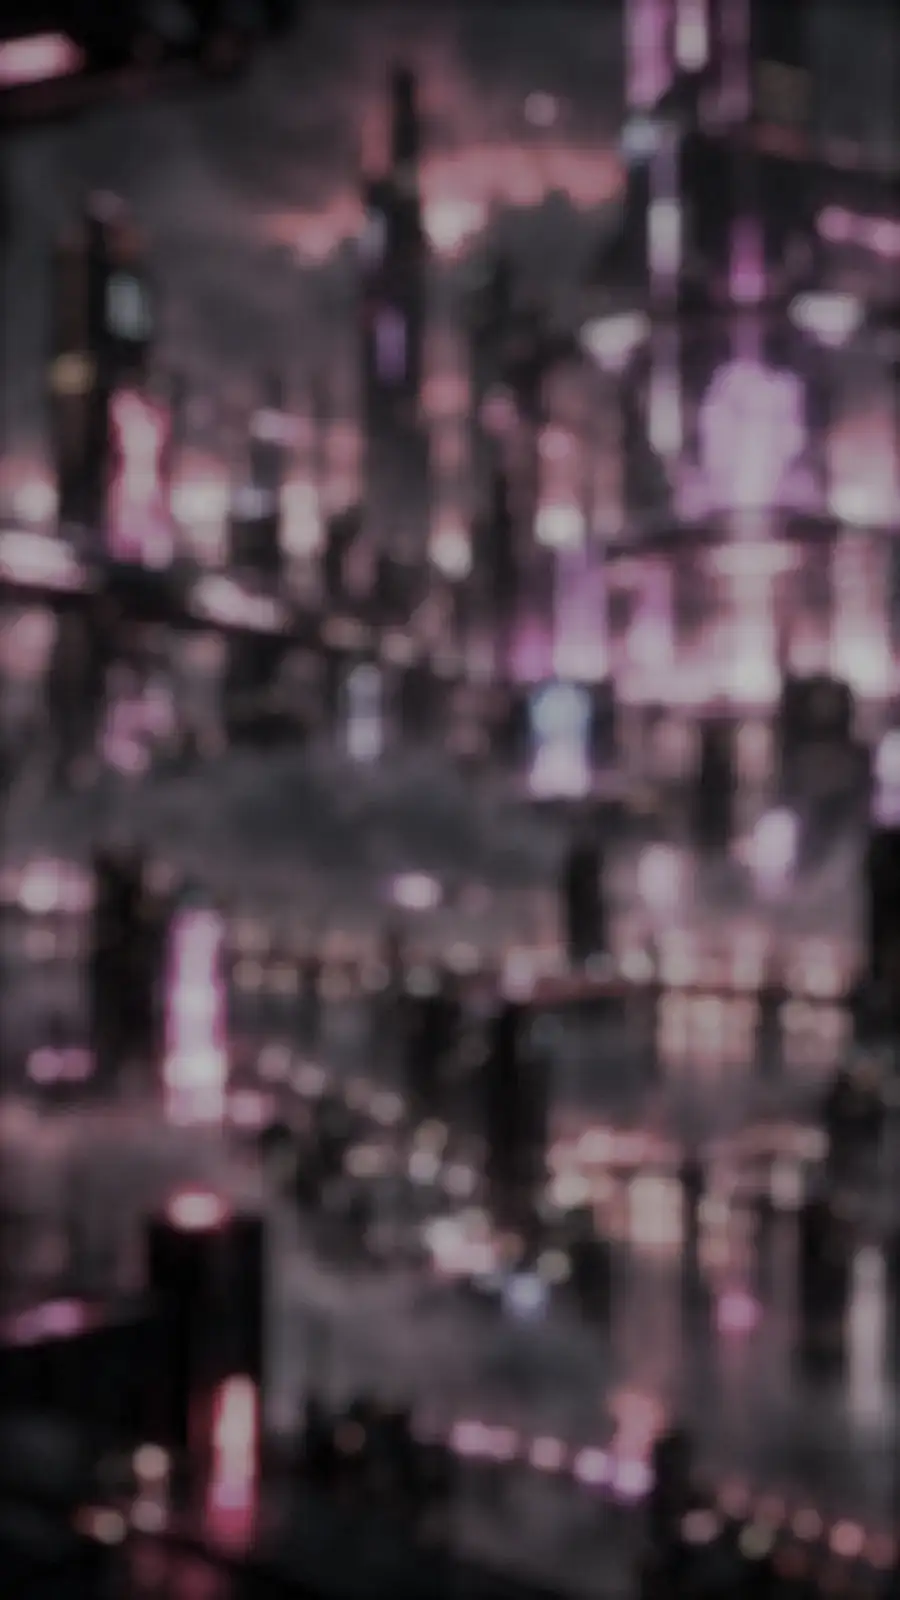
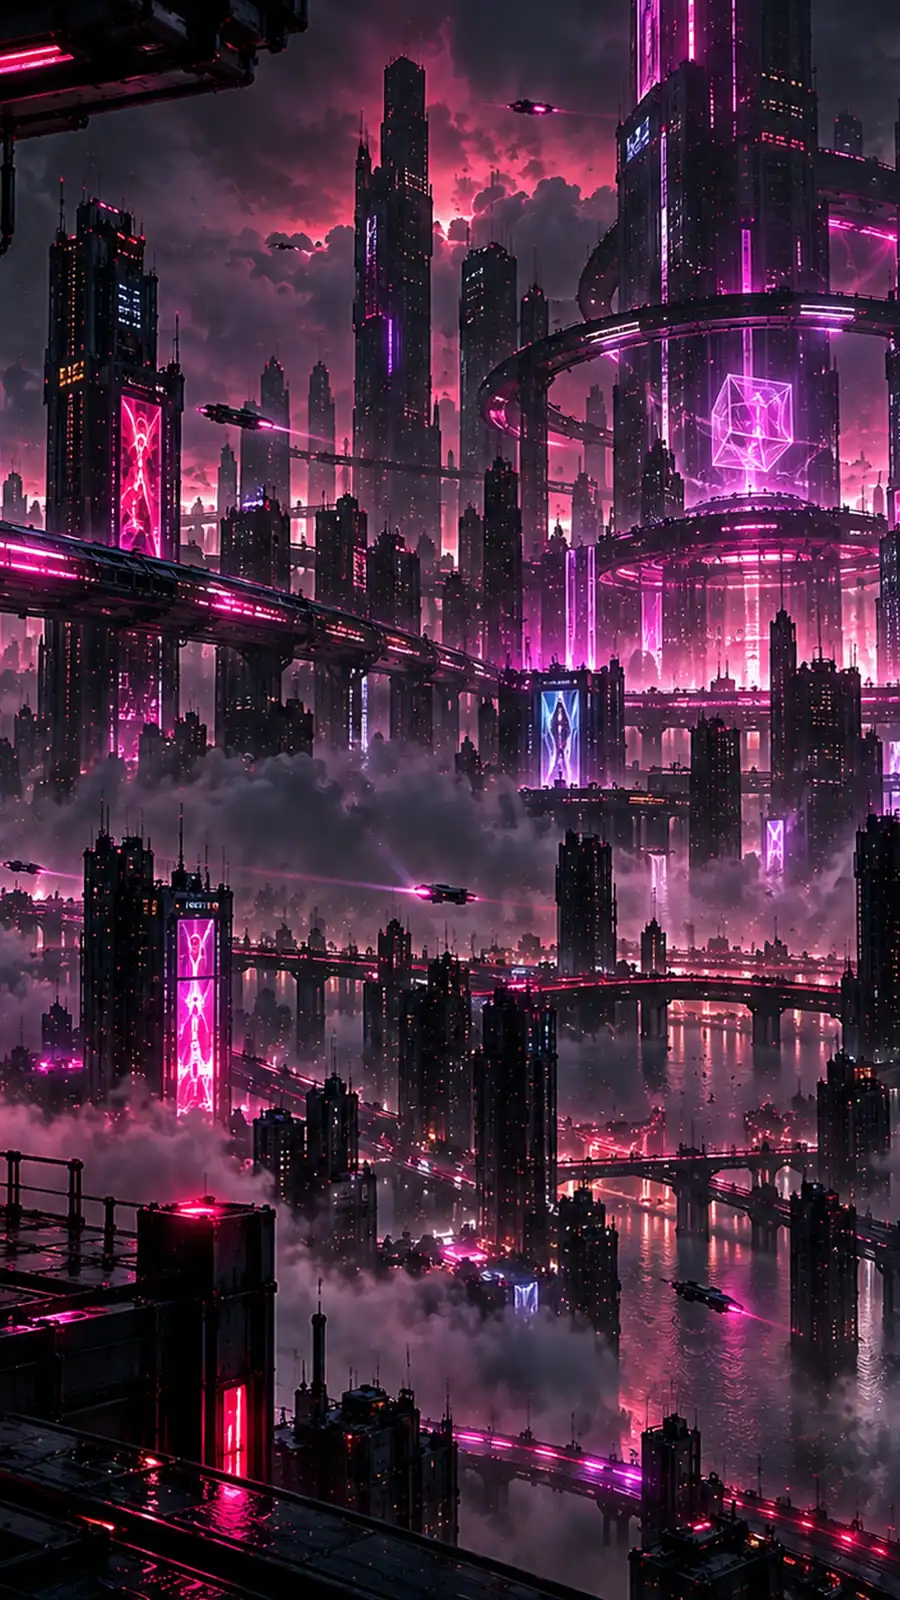
Cyberpunk: фони без блюру — повернуто чіткі зображення, м'якший підсвіт розривів
Запечений блюр/боке в фото-фонах прибрано (чіткі оригінали), підсвіт зрізів
глітча зменшено під чітку картинку.

Claude-Session: https://claude.ai/code/session_01XRciSyGzXWcG83xZpB7vJ8

diff --git a/client/src/glass-glitch.css b/client/src/glass-glitch.css
@@ -22,8 +22,8 @@ html[data-theme] body::after {
   background:
     var(--bg-scrim, none),
     var(--bg-photo, none) center / cover no-repeat;
-  /* the picture is soft (baked bokeh), so a torn slice is lifted a little to read as a tear */
-  filter: brightness(1.6) saturate(1.3);
+  /* the picture is sharp; a torn slice is lifted a little to read as a tear */
+  filter: brightness(1.25) saturate(1.3);
   opacity: 0;
   animation: bg-glitch 11s steps(1, end) infinite;
 }
@@ -44,12 +44,12 @@ html[data-theme] body::after {
   59% {
     clip-path: inset(48% 0 41% 0);
     transform: translateX(20px);
-    filter: brightness(1.7) hue-rotate(70deg) saturate(1.3);
+    filter: brightness(1.35) hue-rotate(70deg) saturate(1.3);
   }
   60.2% {
     clip-path: inset(31% 0 60% 0);
     transform: translateX(-9px);
-    filter: brightness(1.6) saturate(1.3);
+    filter: brightness(1.25) saturate(1.3);
   }
   61.4% {
     clip-path: inset(72% 0 20% 0);
@@ -67,12 +67,12 @@ html[data-theme] body::after {
   87.6% {
     clip-path: inset(22% 0 70% 0);
     transform: translateX(-12px);
-    filter: brightness(1.7) hue-rotate(-60deg) saturate(1.3);
+    filter: brightness(1.35) hue-rotate(-60deg) saturate(1.3);
   }
   88.8% {
     clip-path: inset(80% 0 12% 0);
     transform: translateX(9px);
-    filter: brightness(1.6) saturate(1.3);
+    filter: brightness(1.25) saturate(1.3);
   }
 }
 /* Contours: |picture shifted a little - picture| leaves only the edges of what is in it. One copy is tinted the app's
